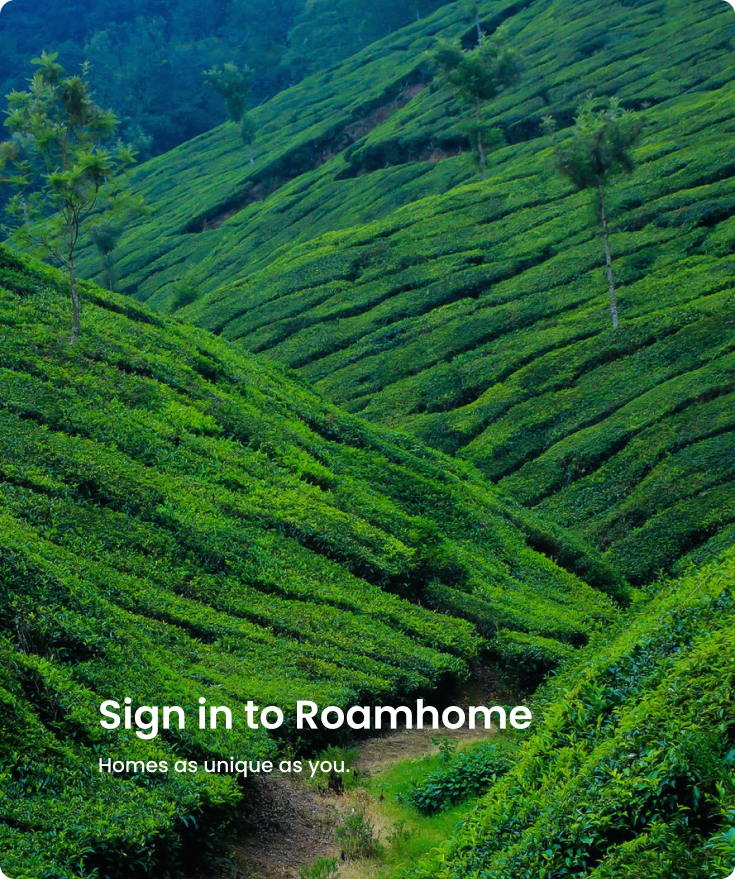
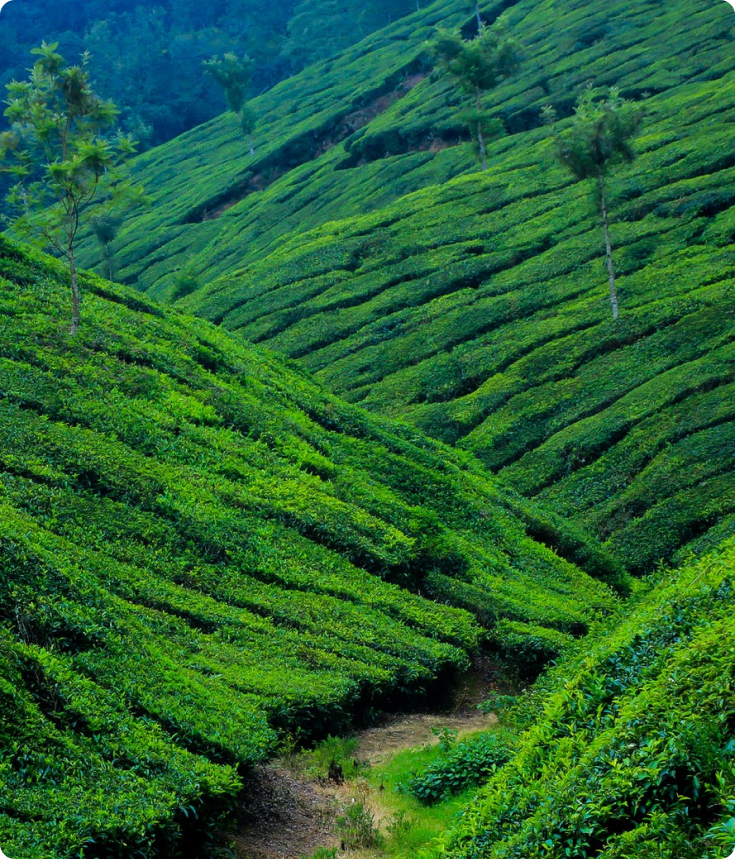
Added img

diff --git a/src/app/Features/auth/auth.component.html b/src/app/Features/auth/auth.component.html
@@ -1,21 +1,18 @@
+<section class="auth py-3 px-3 ">
 
-
-
-<section class="auth d-flex justify-content-between py-3 px-3 ">
-  <h3 class="mx-4">Stay<span>cation.</span></h3>
-  <div class="container-fluid auth-text my-2">
-    <div class="row ">
-      <div class="col-6">
+  <div class="container-fluid">
+    <div class="row full-height">
+      <div class="col-6  auth-text">
+        <h3 class="mx-4 h1 title">Stay<span>cation.</span></h3>
 
       </div>
-      <div class="col-6 p-0">
-        <div class="">
-          <img  class="img-fluid w-100" src="../../../assets/login.png" alt="Login">
-        </div>
-
+      <div class="col-6 p-0 img-login d-flex justify-content-end flex-column p-5">
+       <div class="text-white ">
+         <h3>Sign in to Roamhome</h3>
+         <p>Homes as unique as you.</p>
+       </div>
       </div>
     </div>
   </div>
-
-
 </section>
+

diff --git a/src/app/Features/auth/auth.component.scss b/src/app/Features/auth/auth.component.scss
@@ -1,4 +1,11 @@
-img {
-  aspect-ratio: 1/1;
-  width: 100%;
+.auth{
+  .full-height{
+   height: 95vh;
+  }
+ .img-login{
+  background-image: url('../../../assets/login.png');
+  background-repeat: no-repeat;
+  background-size: cover;
+z-index: 100;
+ }
 }

diff --git a/src/styles/customs/common.scss b/src/styles/customs/common.scss
@@ -1,13 +1,9 @@
 .auth{
-  h3 {
+  .title{
     color: $primary-color;
     span{
       color: $main-color!important;
     }
   }
-  .auth-text{
-   h2{
-    color: $accent-color;
-   }
-  }
+
 }
